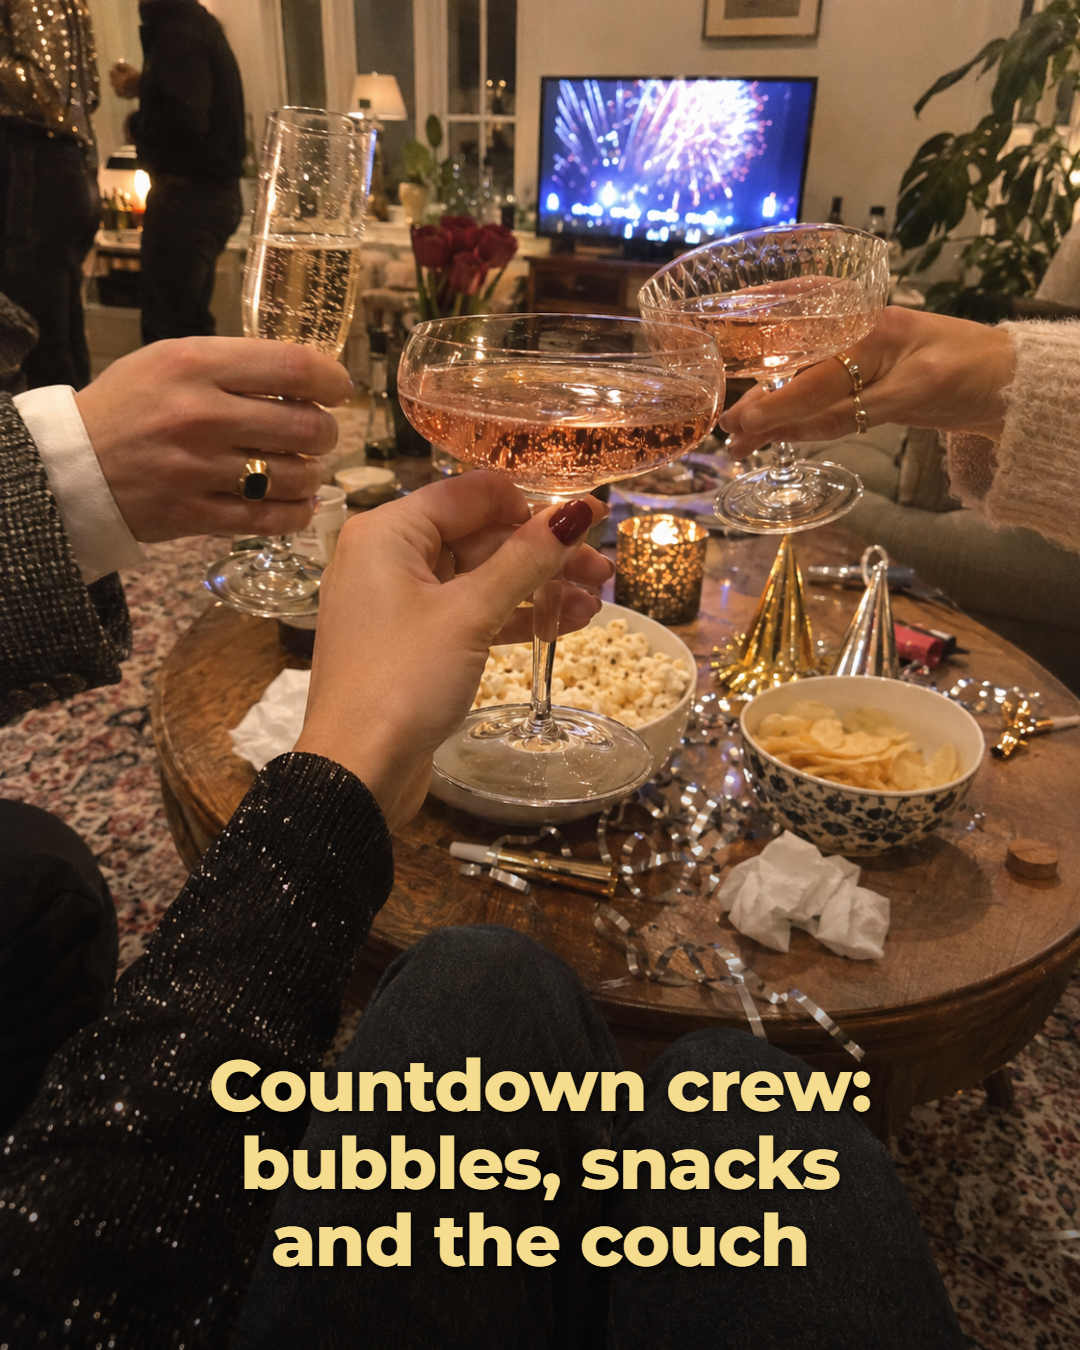
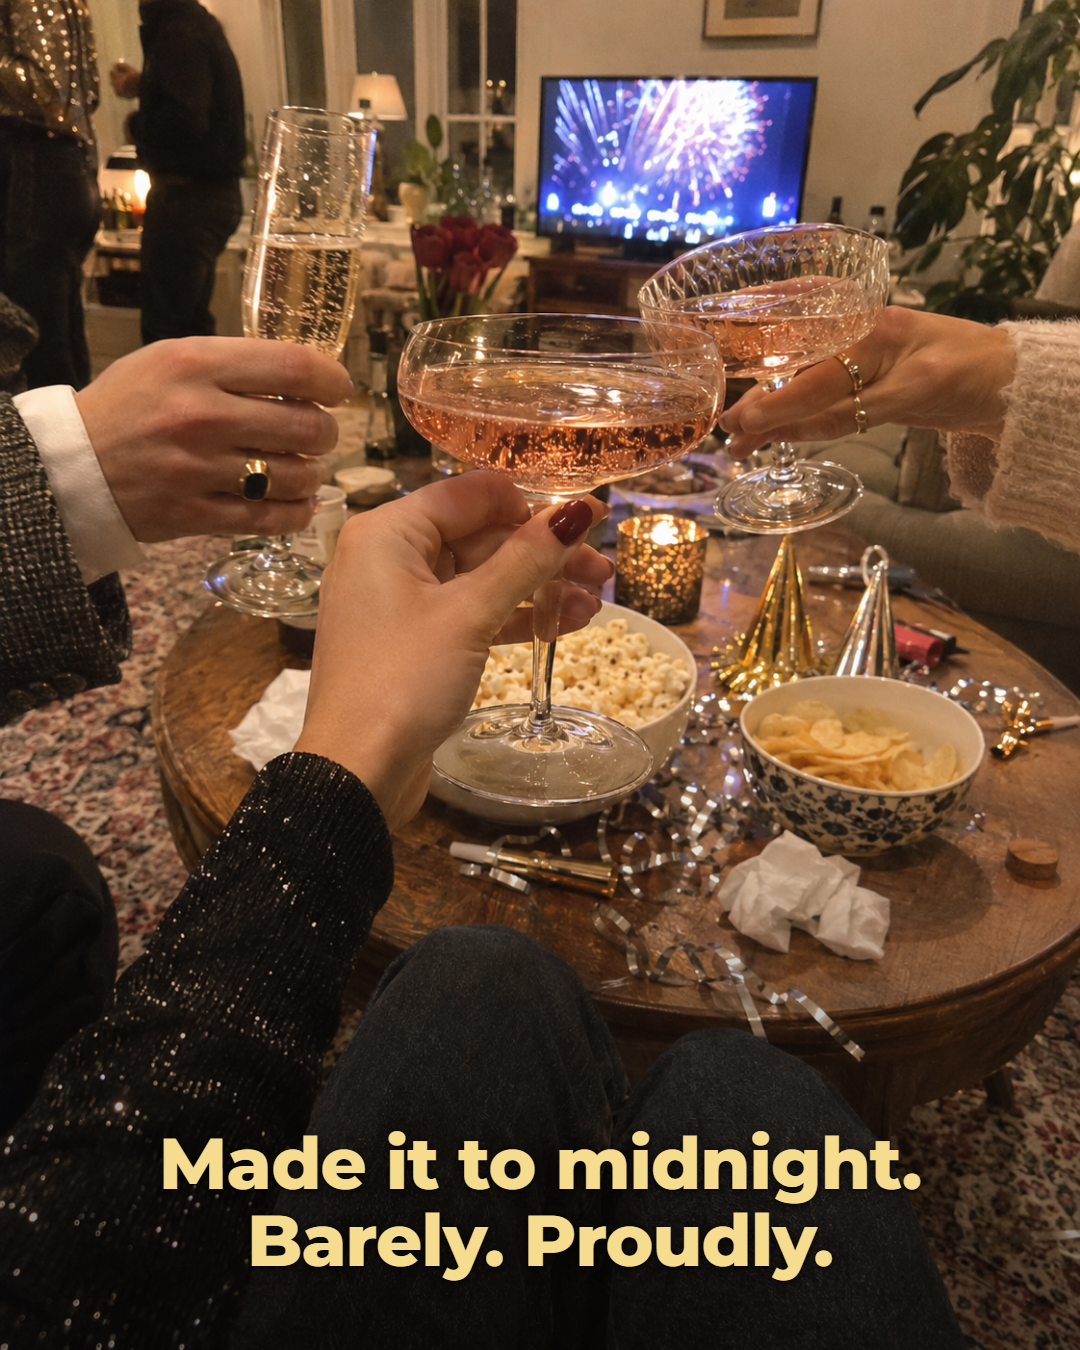
Punch up 6 meme lines

Changed region(s): [[0.1528, 0.7778, 0.8556, 0.9644]]

diff --git a/specs/make_avatar_memes2.py b/specs/make_avatar_memes2.py
@@ -13,9 +13,9 @@ M = {  # file: (text, 'top'|'bottom')
  "b06": ("POV: buying cookies<br>for the neighbors<br>(and a tin for the car)", "bottom"),
  "b07": ("POV: you came in<br>for one sweater", "bottom"),
  "b08": ("Weekend errands:<br>iced coffee first,<br>responsibilities later", "bottom"),
- "b09": ("Treat yourself after<br>you treat everyone else", "bottom"),
+ "b09": ("Shopping for everyone<br>else is exhausting.<br>Cake is medically necessary.", "bottom"),
  "b10": ("Retail therapy:<br>still cheaper than<br>actual therapy", "bottom"),
- "b11": ("Vintage ornament<br>season is the<br>best season", "bottom"),
+ "b11": ("Handling the vintage<br>ornaments like a<br>bomb technician", "bottom"),
  "b12": ("Plans tonight:<br>absolutely none", "top"),
  "b13": ("The \u201cquick\u201d errand:<br>2 hours, 4 bags,<br>1 latte", "bottom"),
  "b14": ("When the trunk is full<br>but the list<br>still isn\u2019t done", "bottom"),
@@ -30,8 +30,8 @@ M = {  # file: (text, 'top'|'bottom')
  "d04": ("Christmas Eve,<br>11pm, wrapping<br>break #6", "top"),
  "f01": ("NYE outfit crisis:<br>velvet or sequins?", "bottom"),
  "f02": ("The star crown is<br>non-negotiable", "bottom"),
- "f03": ("New year,<br>same fuzzy socks", "top"),
- "f04": ("Countdown crew:<br>bubbles, snacks<br>and the couch", "bottom"),
+ "f03": ("New year, new me.<br>Kidding. Same socks.", "top"),
+ "f04": ("Made it to midnight.<br>Barely. Proudly.", "bottom"),
  "g03": ("January: the month we<br>“take a break<br>from spending”", "bottom"),
  "h_trunk": ("Went in for<br>toilet paper", "bottom"),
  "h_cozybed": ("Had big plans today.<br>The bed had<br>bigger ones.", "bottom"),
@@ -41,10 +41,10 @@ M = {  # file: (text, 'top'|'bottom')
  "h_brunch": ("Sunday debrief:<br>nobody is fine", "bottom"),
  "h_carflowers": ("The flowers got<br>the passenger seat", "top"),
  "i_car": ("Passenger princess<br>reporting for duty", "top"),
- "i_pasta": ("Cooking dinner like<br>I’m in a movie", "top"),
+ "i_pasta": ("The recipe said a splash<br>of wine. I don’t know her.", "top"),
  "i_mirrorkiss": ("Every girls’ night ends<br>at the bathroom mirror", "bottom"),
  "i_cozylegs": ("Sunday reset, step one:<br>don’t get up", "top"),
- "i_peonies": ("Peonies in January?<br>Instant yes.", "top"),
+ "i_peonies": ("Fresh flowers are a<br>grocery staple.<br>Don’t fact-check me.", "top"),
  "b16": ("December personality:<br>Christmas movies,<br>popcorn, zero plans", "bottom"),
 }
 def html(img, text, where):
